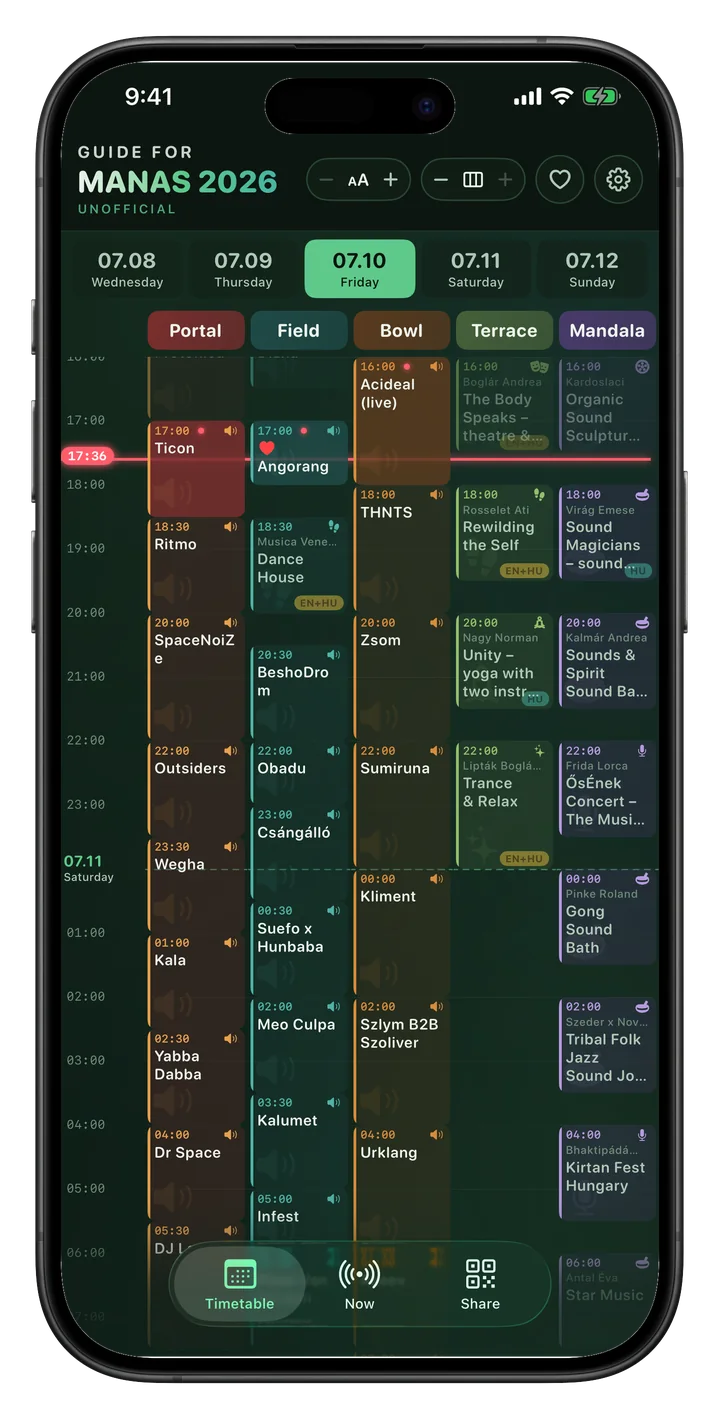
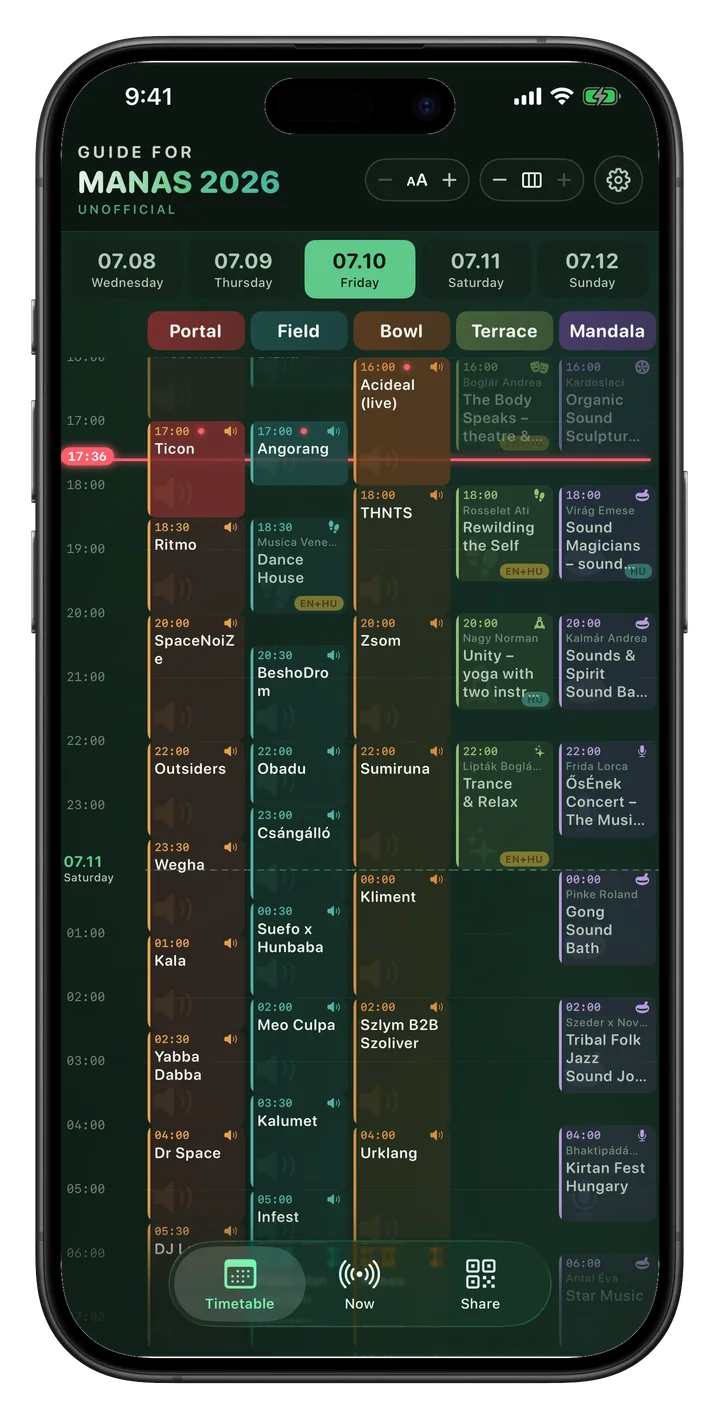
chore(web): reframe the friday timetable shot without the stray heart

diff --git a/pwa/lib/landing-version.ts b/pwa/lib/landing-version.ts
@@ -1,3 +1,3 @@
 // AUTO-GENERATED by pwa/scripts/build_landing_images.py — cache-busts the
 // framed landing images (their filenames are stable) on every regeneration.
-export const LANDING_IMG_V = "1783397426";
+export const LANDING_IMG_V = "1783398555";
